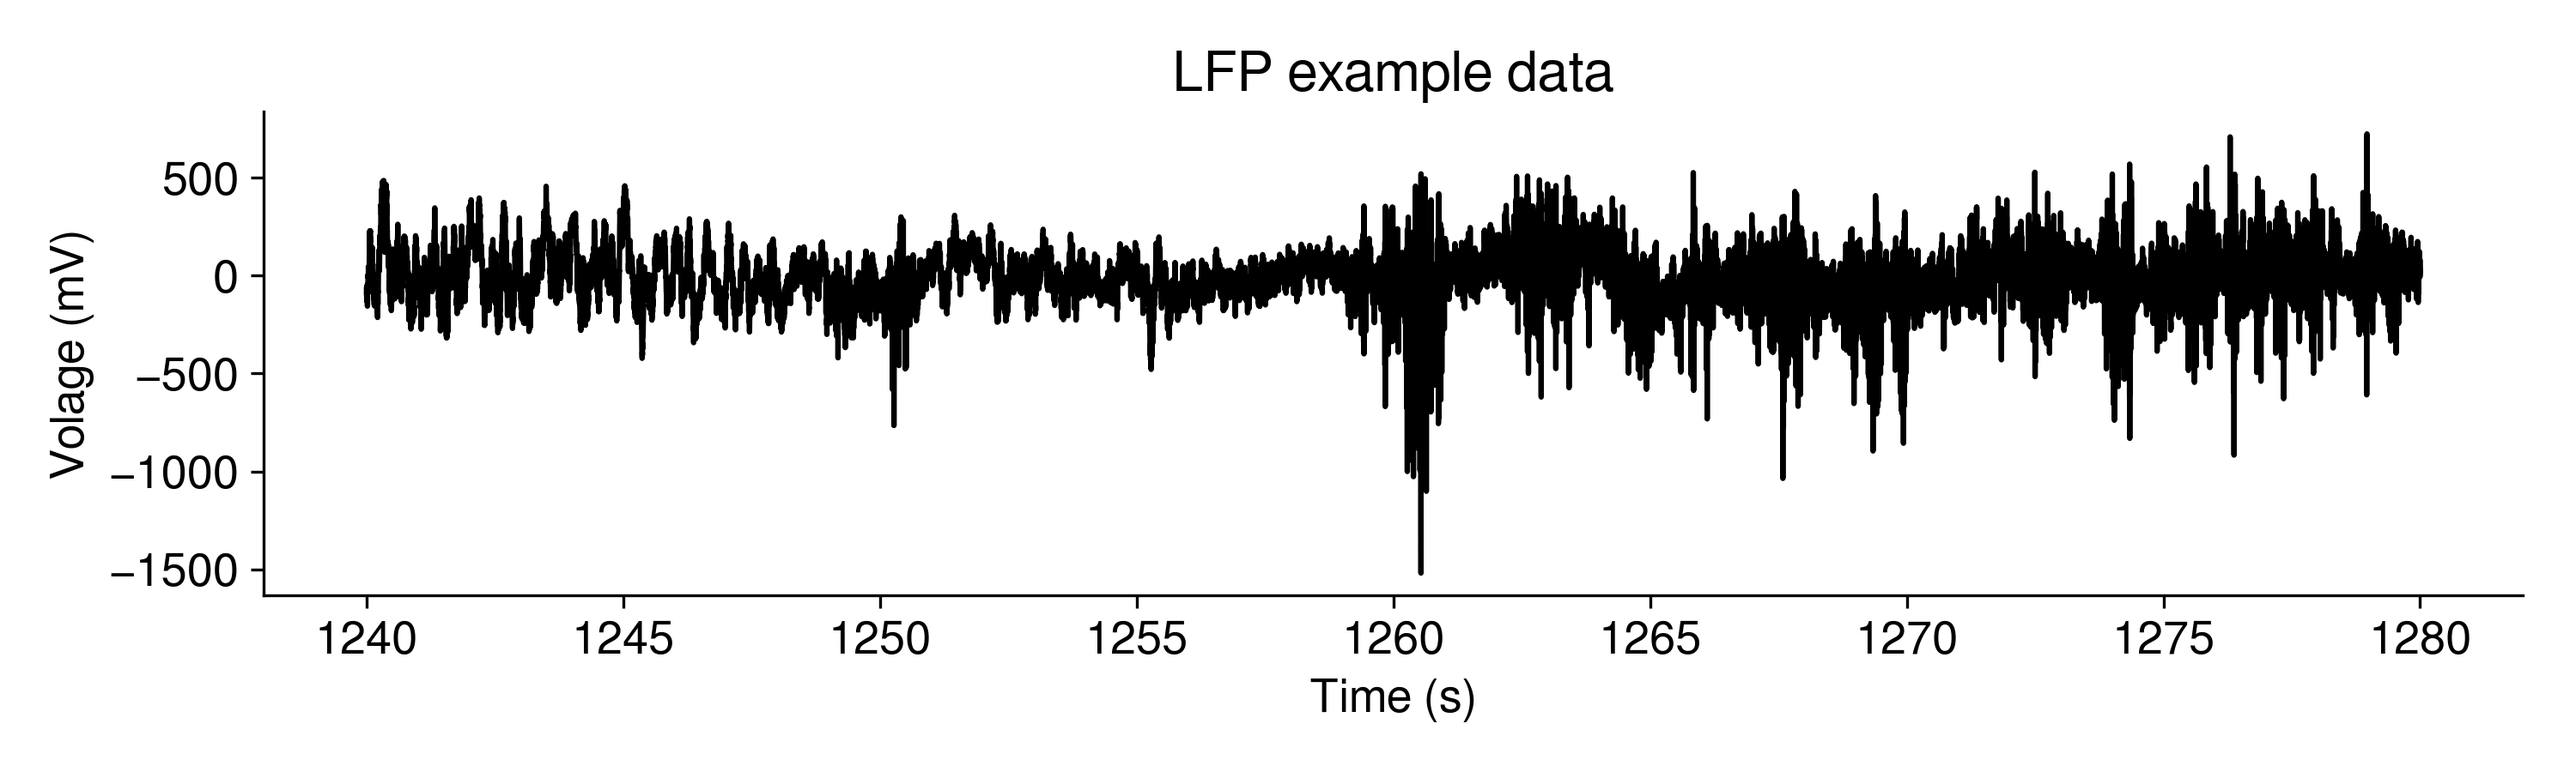
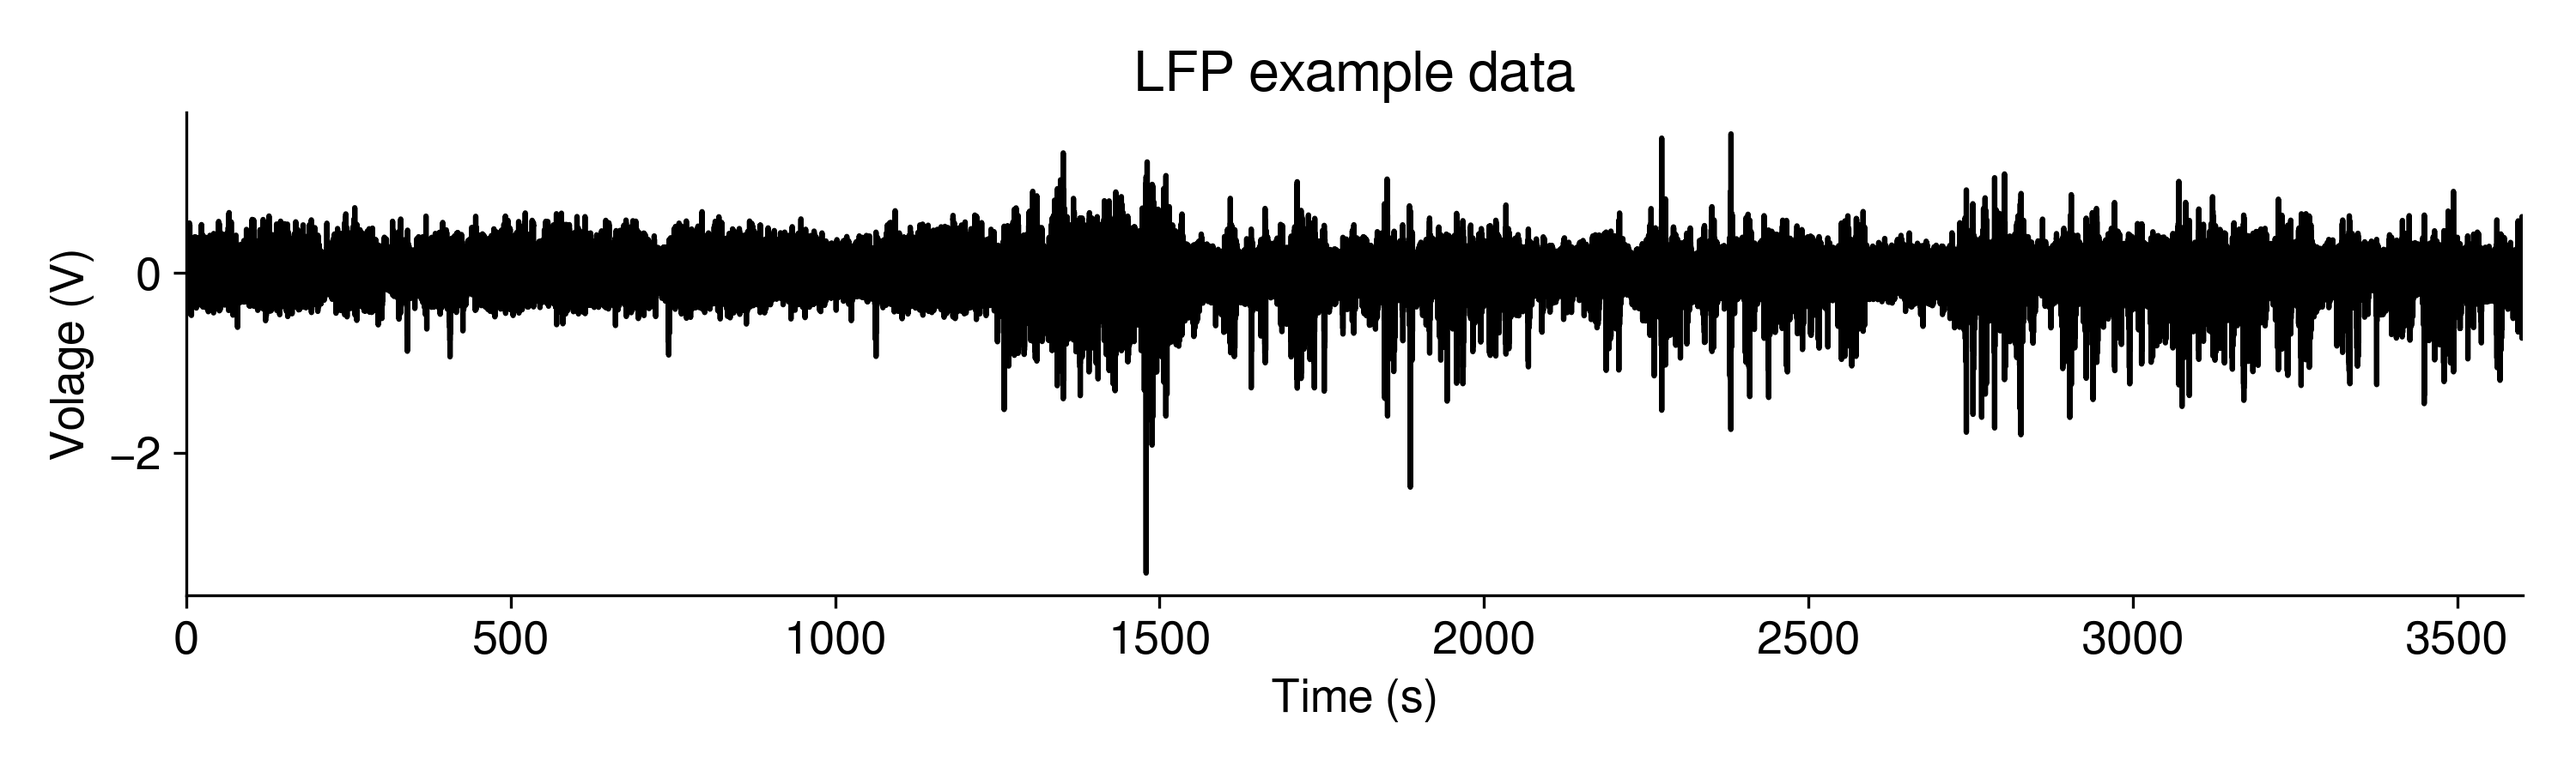
Update 00_intro

diff --git a/00_intro/LFP_analysis_example.py b/00_intro/LFP_analysis_example.py
@@ -3,22 +3,24 @@ import matplotlib as mpl
 from matplotlib import pyplot as plt
 
 # load data:
-data = np.load('LFP_example_data.npy')
-npoints = len(data)
+mV = np.load('LFP_example_data.npy') # voltage signal, in mV
+V = mV / 1000 # convert to V
+npoints = len(V)
 sampfreq = 1000 # Hz
 t = np.arange(npoints) / sampfreq
 
 # plot all data:
 f1, a1 = plt.subplots(figsize=(10, 3)) # create a figure and axes
-a1.plot(t, data, '-', c='black')
+a1.plot(t, V, '-', c='black')
+a1.set_xlim((t[0], t[-1])) # set hard x limits
 a1.set_title('LFP example data')
 a1.set_xlabel('Time (s)')
-a1.set_ylabel('Volage (mV)')
+a1.set_ylabel('Volage (V)')
 
 # calculate spectrogram using Welch's periodogram method:
 winwidth = 5 # window width, seconds
 winwidthsamples = int(winwidth * sampfreq)
-P, freqs, t = mpl.mlab.specgram(data, winwidthsamples, sampfreq)
+P, freqs, t = mpl.mlab.specgram(V, winwidthsamples, sampfreq)
 
 # set frequency limits:
 fmin, fmax = 0, 50 # set frequency limits, in Hz
